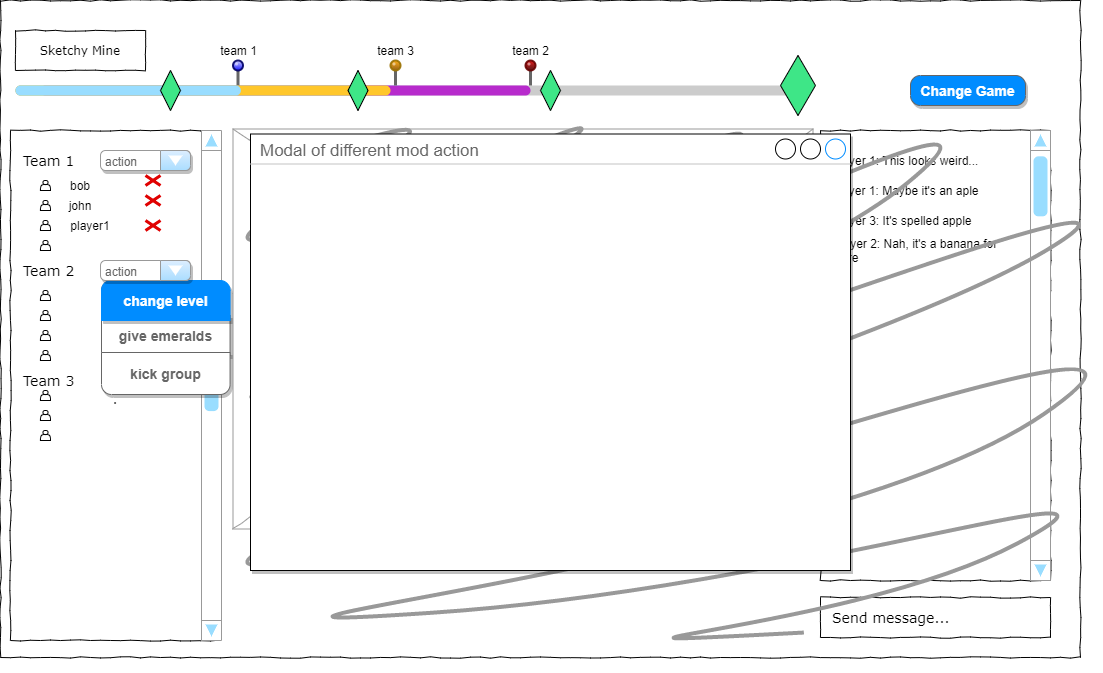
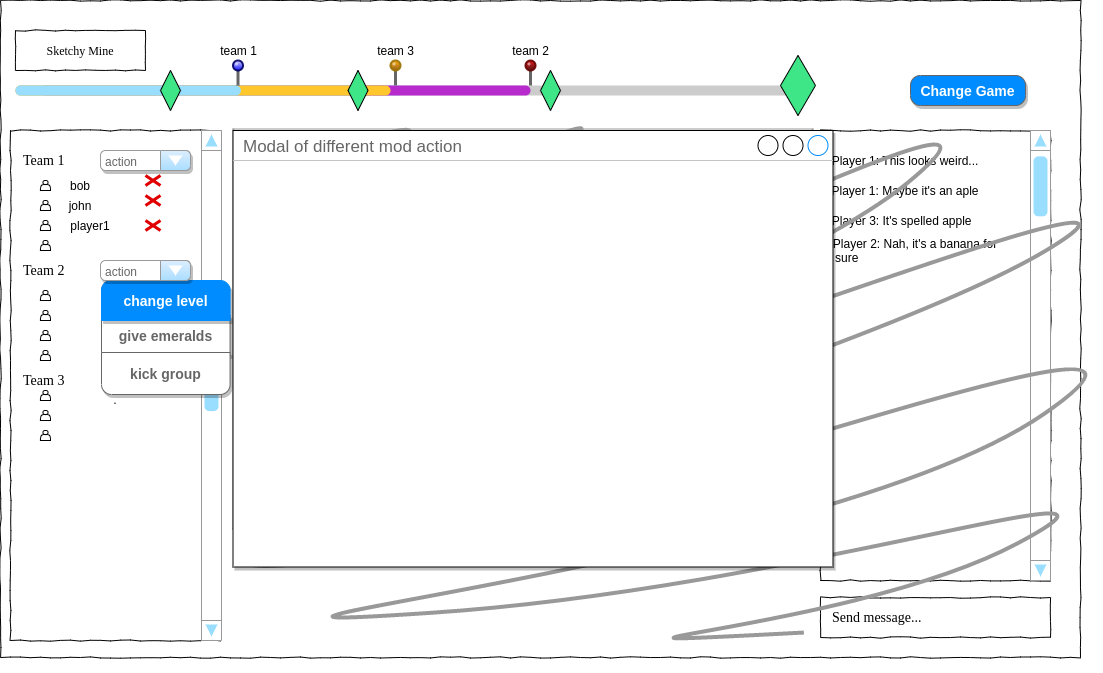
moderator and warning wireframes added + description in the game-design document

diff --git a/docs/game-design.md b/docs/game-design.md
@@ -189,8 +189,27 @@ All players have their own persistent ranking, based on the number of emerald sh
 
 ### Moderator
 
-![Moderator](./resources/wireframes/moderator.png "Moderator view")
+#### Moderator view of the canvas
+![Moderator](./resources/wireframes/moderator-buttons.png "Moderator view")
 
+- view of the moderator is similar to the player's view, but has additional buttons:
+  - the moderator can kick out a player, prevent them to send messages and send them a warning (warning form below)
+  - they can boost, de-boost or kick out the whole group
+  - they can clear the canvas and ban the drawer form his role, if what he is drawing is inappropriate
+  - they can delete messages from the chat and ban the player from sending more, if they are being offensive so anyone
 - the modal appears on top of the screen upon chosen moderator action
 - behind the modal the view is similar to spectator one
 - the modal depends on the chosen action that the moderator want to perform
+
+#### Moderator warning message form
+![WarningForm](./resources/wireframes/warning-message-form.jpg "Warning message form")
+
+- The moderator can write out a private message (warning) to one of the players upon clicking the correct button
+- The form shows in front of the view so the moderator can still spectate what is going on
+- The <em>X</em> symbol closes the form without sending the message (if the moderator decides later that the warning is not needed) 
+
+#### Player's view of the warning
+![WarningForm](./resources/wireframes/warning-message-player-view-form.jpg "Warning message player view")
+
+- The player sees the warning content
+- The player closes the warning by clicking the <em>X</em> symbol
